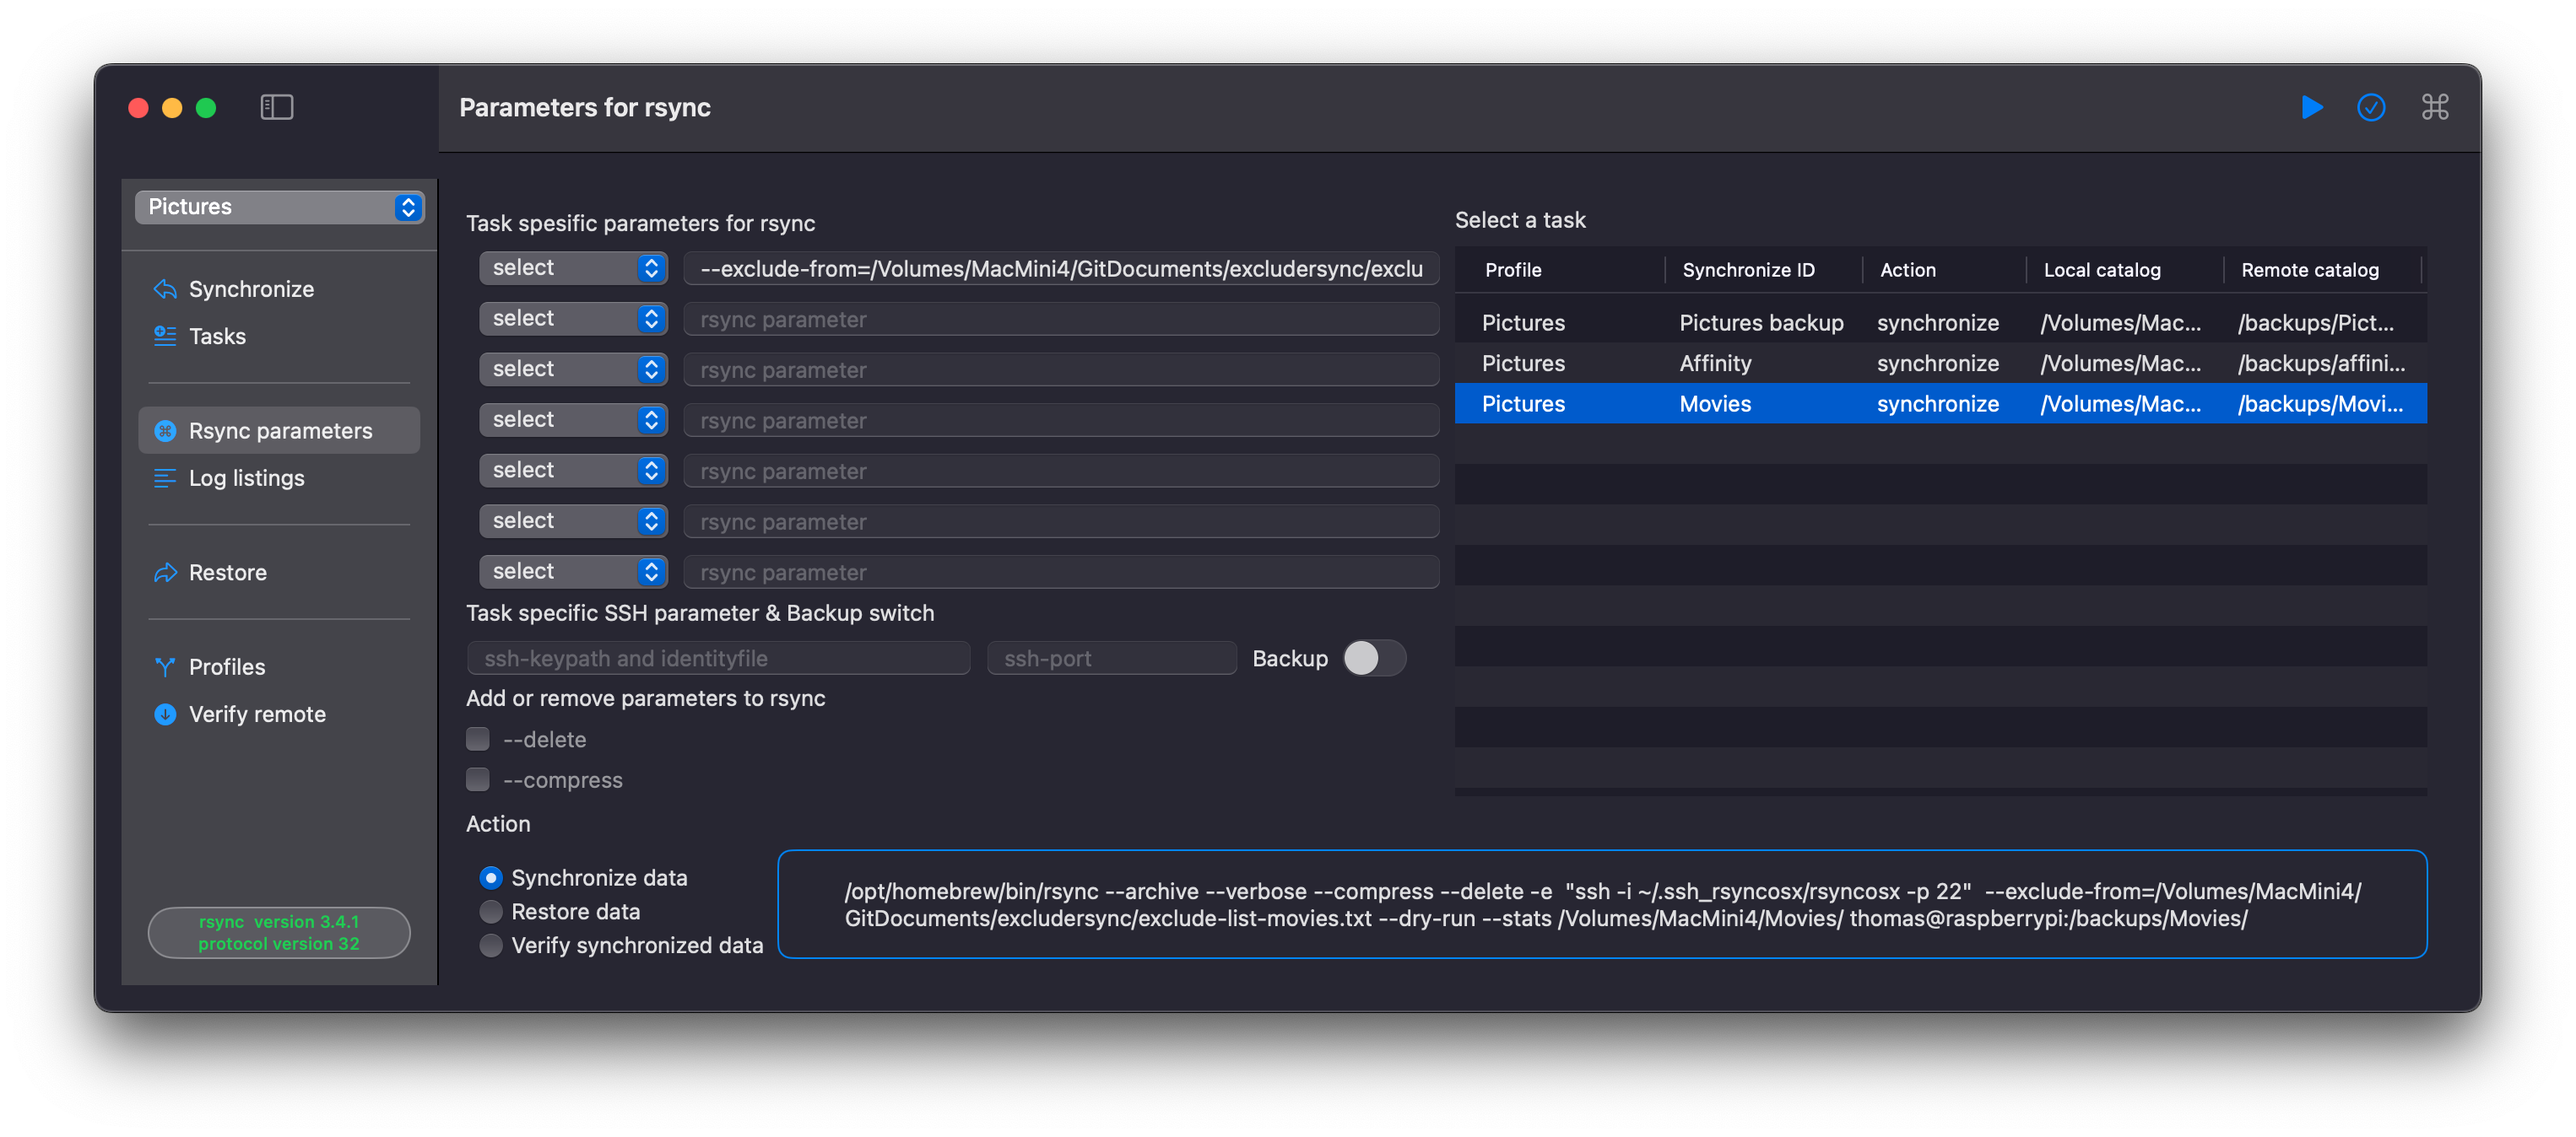
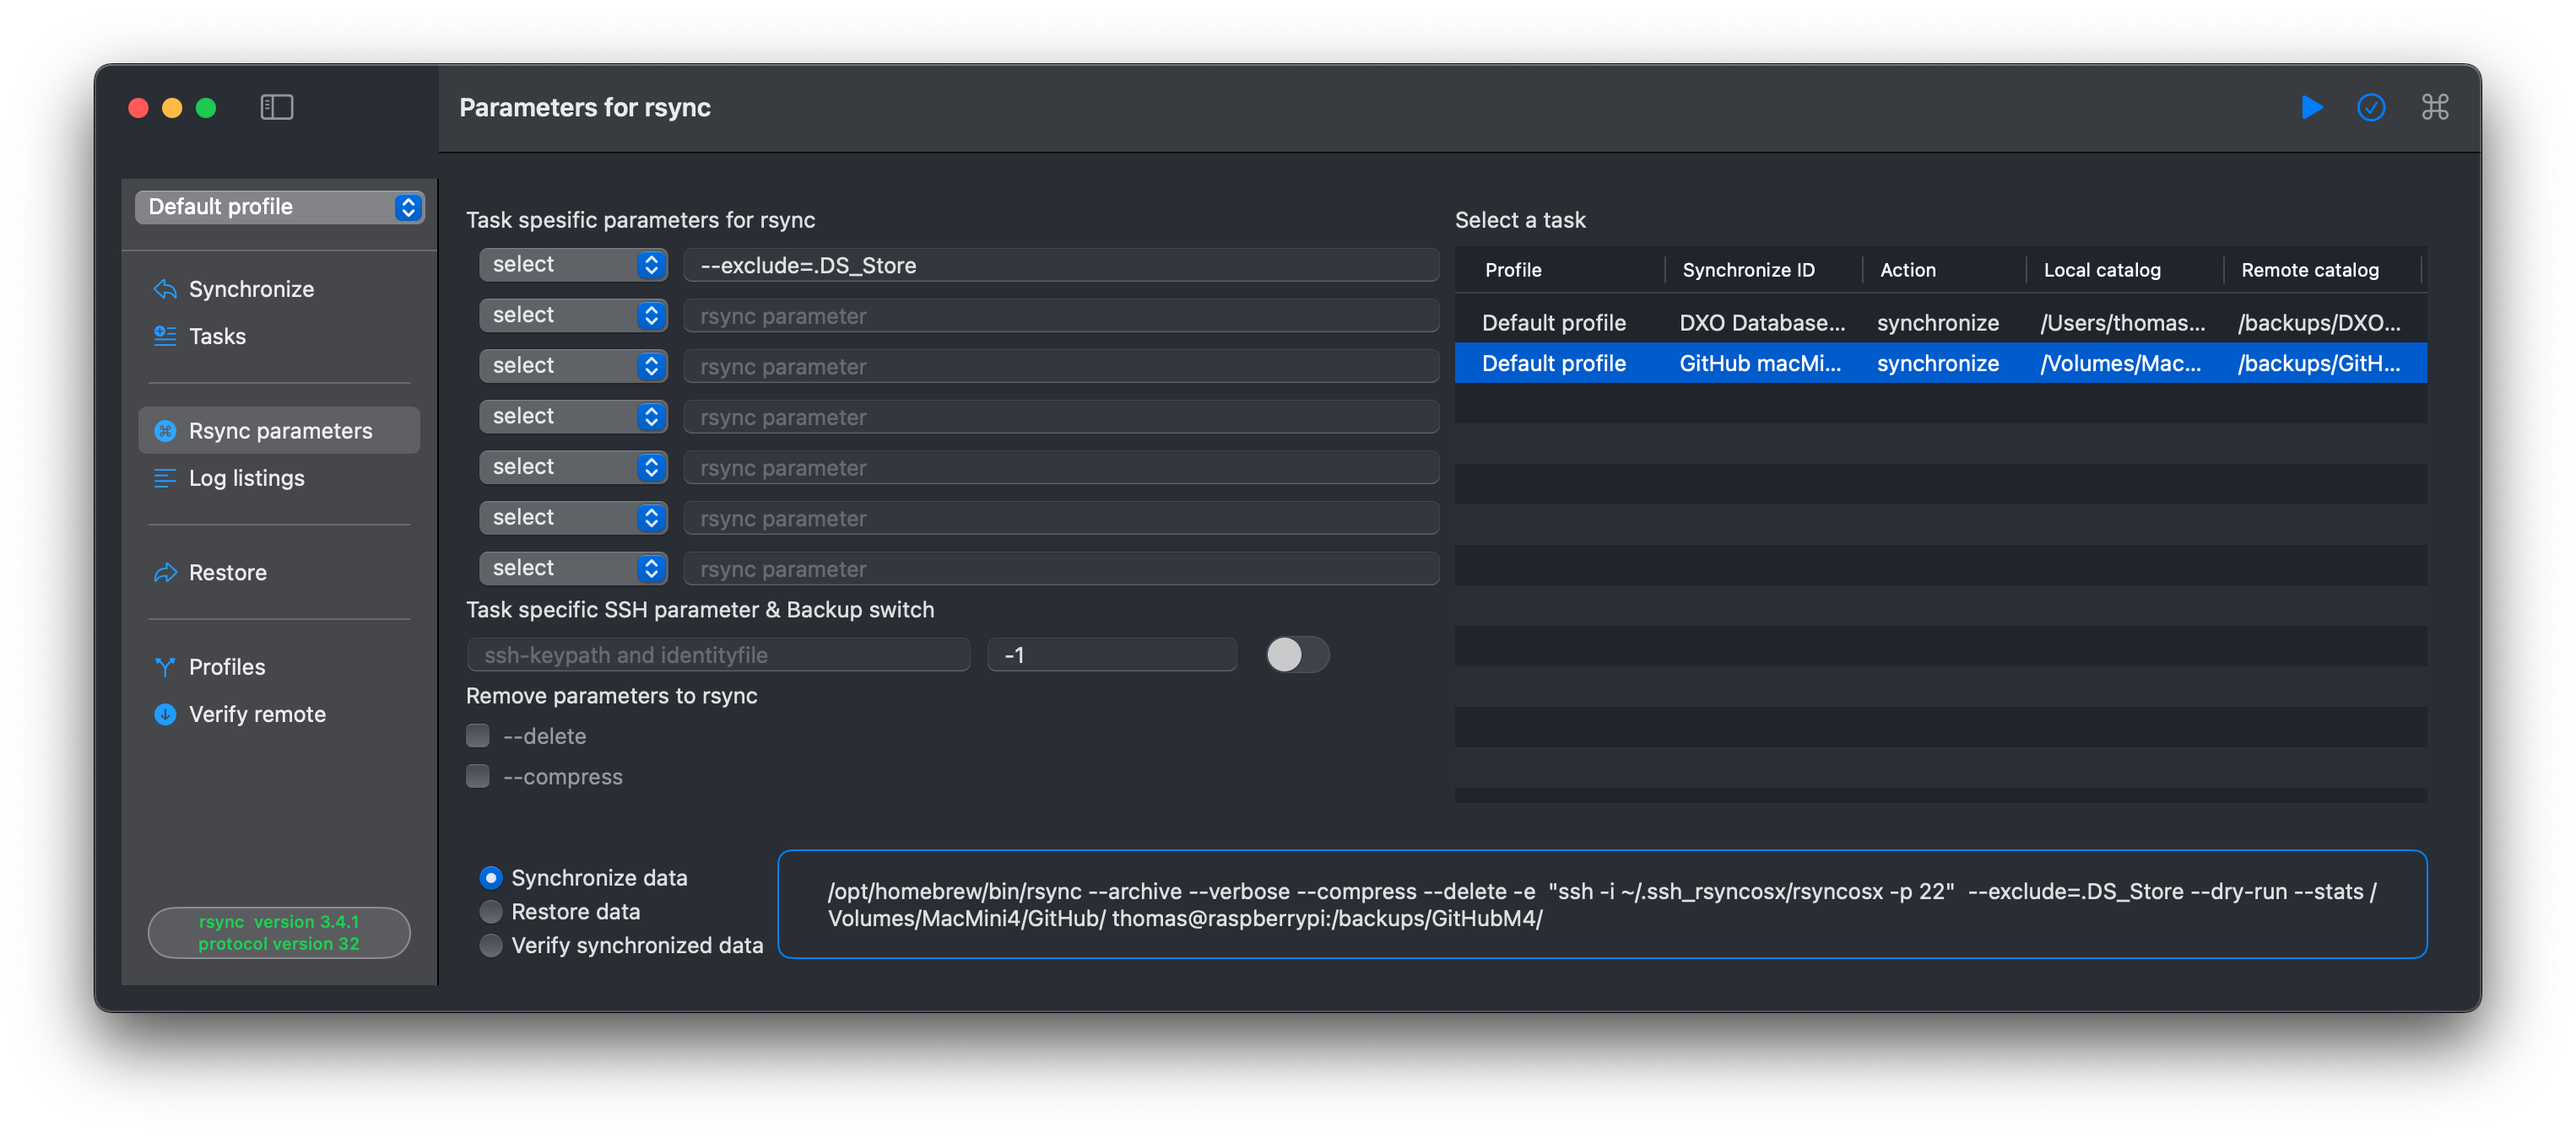
update

diff --git a/content/en/blog/Version240.md b/content/en/blog/Version240.md
@@ -1,37 +1,31 @@
 +++
 author = "Thomas Evensen"
 title = "Version 2.4.0"
-date = "2025-03-18"
+date = "2025-03-19"
 tags = ["changelog","version 2.4.0"]
 categories = ["changelog"]
 +++
 
-### Future plans for RsyncUI
+### Version 2.4.x (build 14x) - work in progress
 
-What is the future for the development of RsyncUI? Following the release of version 2.4.0, the next version is likely to be released after the summer. Of course, any bugs reported will be fixed, and there will be a bugfix release. The spring and summer are quite busy as a bird photographer. After the release of version 2.4.0, I will focus on my other major hobby, bird photography. You can find a link to some of my photos on my [GitHub site](https://github.com/rsyncOSX/).
-
-However, I have some plans for the next major version of RsyncUI. By URL or Deep Links, RsyncUI will support loading any profile, estimating and executing synchronization of data. The next major version of RsyncUI will  include a *calendar and scheduling of tasks*. Before including a scheduling function in RsyncUI, I must develop a calendar application that will be integrated into RsyncUI. This will take some time. I will spend more time on photography now and develop the calendar application in between my bird photo sessions. 
-
-And, if you have any questions for me, don´t hesitate to contact me by email thomeven@gmail.com. 
-
-### Version 2.4.0 (build 140) - work in progress
-
-There is also a release candidate for version 2.4.0 which will be updated when there are new updates. Updated 18, March 2025.  
-
-The development of the next version is commenced. This version is expected to be released by the end of March or the beginning of April 2025. The primary repository on GitHub is always updated with the latest development.
+There is also a release candidate for version 2.4.x. The release candidate is updated when there are new updates. This version is expected to be released by the end of March or the beginning of April 2025. The primary repository on GitHub is always updated with the latest development.
 
 #### Tagging of data to be synchronized
 
-It is imperative that RsyncUI tags tasks with data to be synchronized correctly. If the tagging fails, there may be local data that is not synchronized. RsyncUI supports the latest version of rsync and the older default version of rsync included in macOS 14 and macOS 15. There is a new function for parsing output from rsync in version 2.4.0.
+It is imperative that RsyncUI tags tasks with data to be synchronized correctly. If the tagging fails, there may be local data that is not synchronized. RsyncUI supports the latest version of rsync and the older default version of rsync included in macOS 14 and macOS 15. There is a new function for parsing output from rsync in version 2.4.x.
 
-#### Consolidation of views
+####  GUI updates
 
-The Parameters view for rsync is consolidated into one view which includes, pr task, user added parameters for rsync, ssh parameters, backup switch and remove parameters. 
-
-The `--delete` parameter is from this version not a default parameter new tasks. The parameter may be added within this view.
+The Parameters view for rsync is consolidated into one view which includes, pr task, user added parameters for rsync, ssh parameters, backup switch and remove parameters.  The `--delete` parameter is from this version **not** a default parameter for new tasks. But, the `--delete` parameter may be added within the *Parameters for rsync* view.
 
 {{< figure src="/images/240/parameters.png" alt="" position="center" style="border-radius: 8px;" >}}
 
-The save URL is now part of the *Add and update tasks* view. The save URL view, verify function, is context sensitive. It is only for remote destinations. And both URL save function are only presented when a task is selected. The saved URLs are used by RsyncUI Widgest. 
+And there is some cleanup within the *Add and update tasks* view as well. 
 
 {{< figure src="/images/240/url.png" alt="" position="center" style="border-radius: 8px;" >}}
+
+### Future plans for RsyncUI
+
+What is the future for the development of RsyncUI? Following the release of version 2.4.x, the next version is likely to be released **after** the summer 2025. Of course, any bugs reported will be fixed. The spring and summer are quite busy as a bird photographer. After the release of version 2.4.x, I will focus on my other major hobby, bird photography. You can find a link to some of my photos on my [GitHub site](https://github.com/rsyncOSX/).
+
+However, I have some plans for the next major version of RsyncUI. By URL or Deep Links, RsyncUI will support loading any profile, estimating and executing synchronization of data. The next major version of RsyncUI will  most likely include a *calendar and scheduling of tasks*.  And, if you have any questions for me, don´t hesitate to contact me by email thomeven@gmail.com. 
